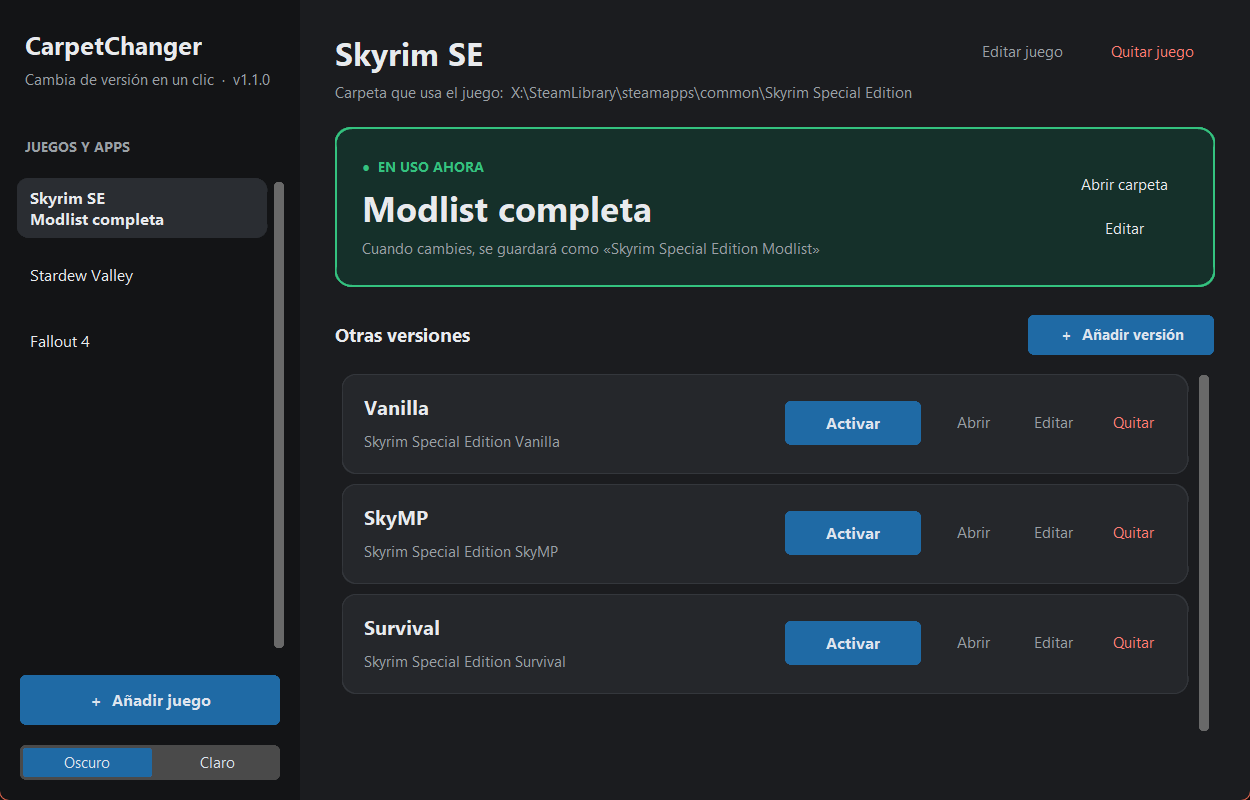
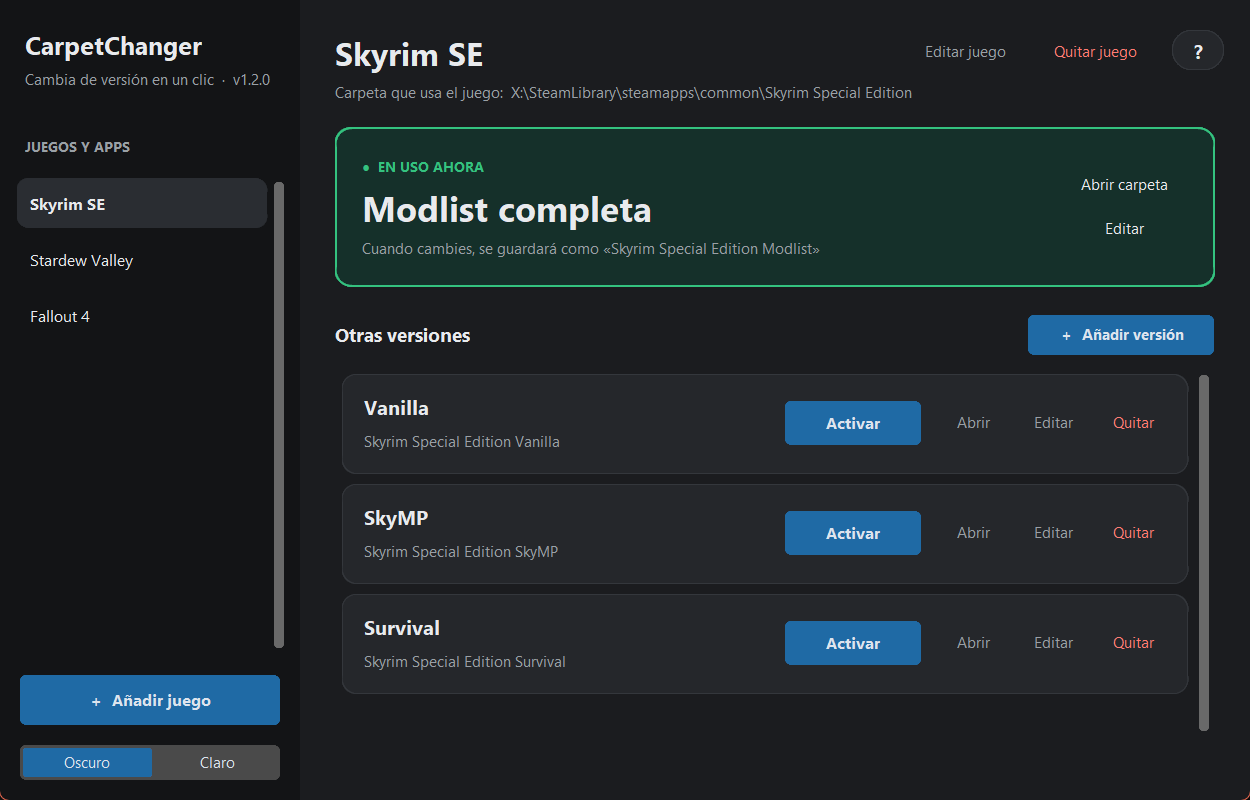
Ayuda integrada, tooltips y barra lateral con el nombre del juego
La barra lateral muestra solo el nombre de cada juego; la versión en uso y
la carpeta pasan a su tooltip.

Botón «?» arriba a la derecha (también F1) que abre una guía: para qué
sirve, cómo funciona con un esquema de antes y después, primeros pasos,
qué hace cada botón, qué hacer si algo falla y dónde se guardan los datos.
La pantalla de bienvenida enlaza también a la guía.

Tooltips en todos los botones, nombres, etiquetas y avisos, que explican
qué hacen y qué se renombra. Aparecen al dejar el ratón quieto y no
parpadean al moverse entre las piezas de un mismo botón.

El autodiagnóstico abre la guía y muestra un tooltip. README y capturas
actualizados.

Changed region(s): [[0.0, 0.2188, 0.2184, 0.4375], [0.7488, 0.0625, 0.9672, 0.0938]]

diff --git a/README.md b/README.md
@@ -65,6 +65,7 @@ Skyrim Special Edition Survival               Skyrim Special Edition Survival
 | **Seguro** | Si el segundo renombrado falla, deshace el primero. Nunca queda nada a medias. |
 | **Desbloqueo inteligente** | Si una carpeta está en uso, averigua qué programa la tiene abierta y lo resuelve o te dice cuál cerrar. |
 | **Portable** | Un único `.exe`, sin instalación. La configuración se guarda a su lado. |
+| **Ayuda integrada** | Botón **?** (o F1) con una guía completa, y tooltips en cada botón y nombre. |
 | **Tema claro y oscuro** | Se recuerda entre sesiones. |
 
 ## Capturas
@@ -133,6 +134,14 @@ genérico que suelen marcar los antivirus.
 3. **Ponle nombre a la versión actual.** La carpeta en uso todavía no tiene un nombre "de guardado"; la app
    te lo pide (por defecto, `Original`) para saber cómo llamarla cuando actives otra.
 4. **Pulsa Activar** en la versión que quieras usar. Listo: abre el juego normalmente.
+
+> [!TIP]
+> ¿Dudas? Pulsa el botón **?** de arriba a la derecha (o **F1**) para abrir la guía, o deja el ratón quieto
+> sobre cualquier botón o nombre para ver qué hace.
+
+<div align="center">
+<img src="docs/img/ayuda.png" width="520" alt="Guía de ayuda integrada">
+</div>
 
 Más cosas que puedes hacer:
 
